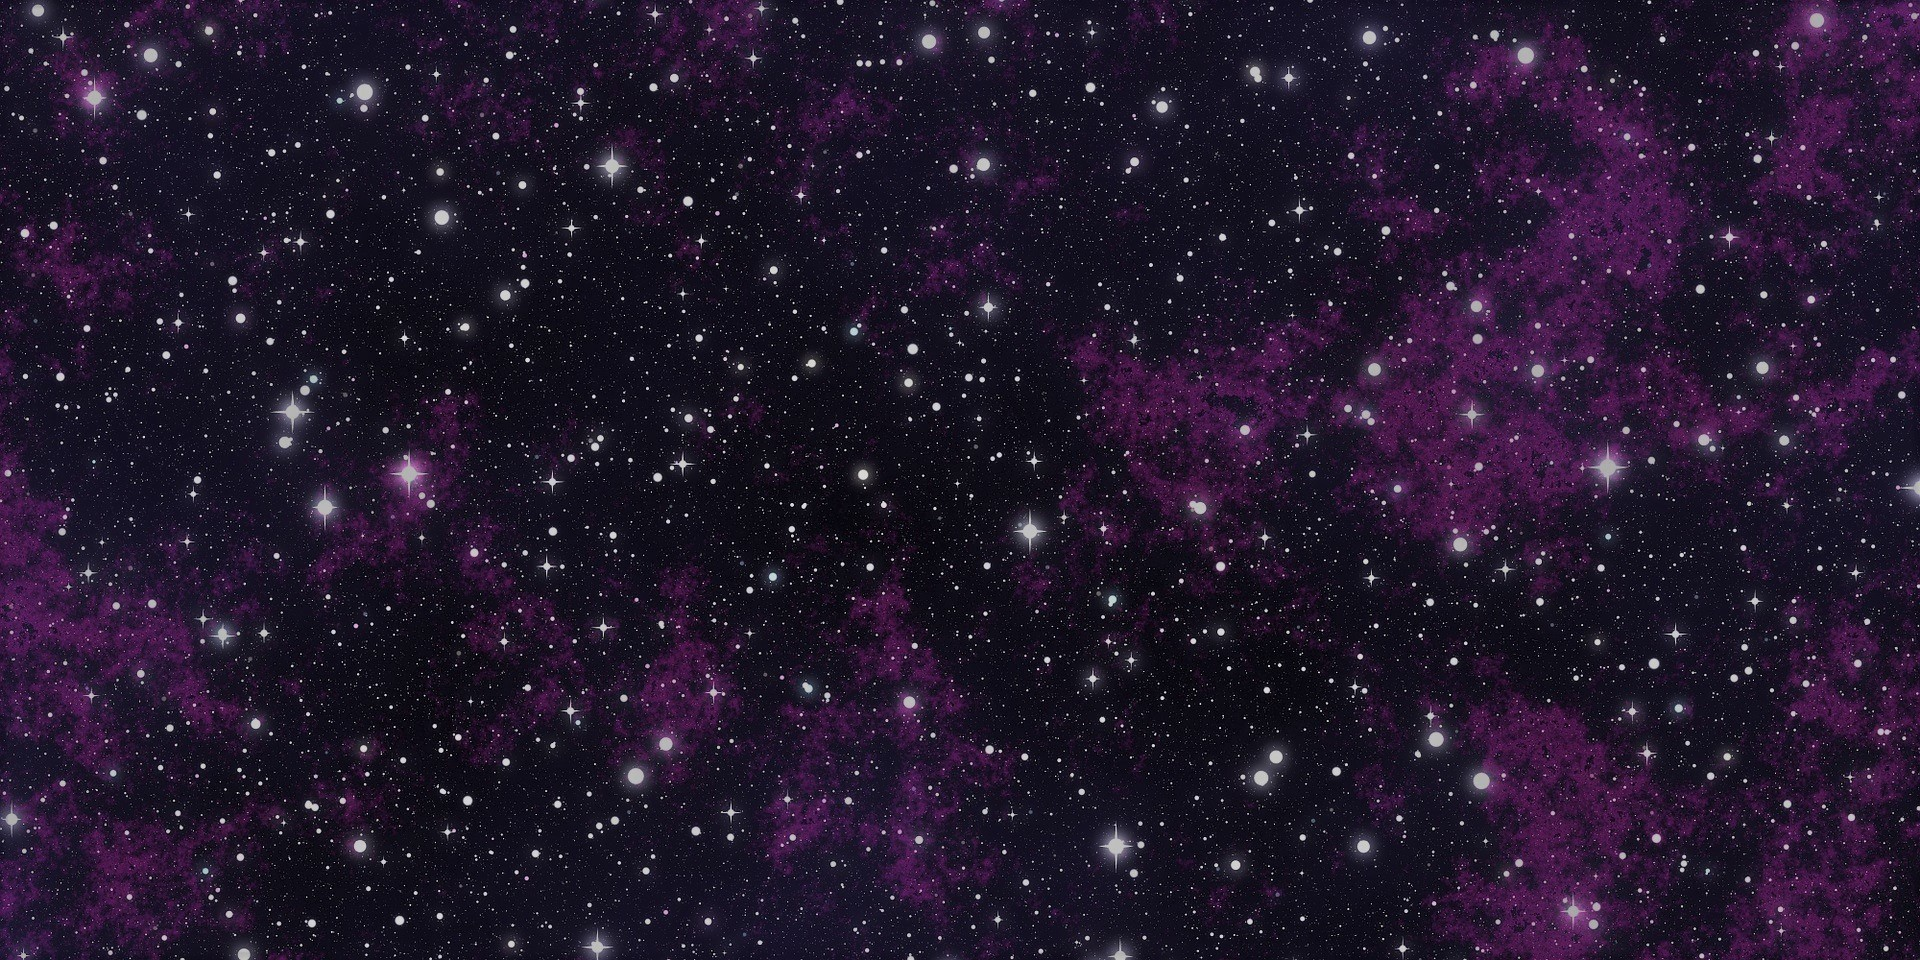
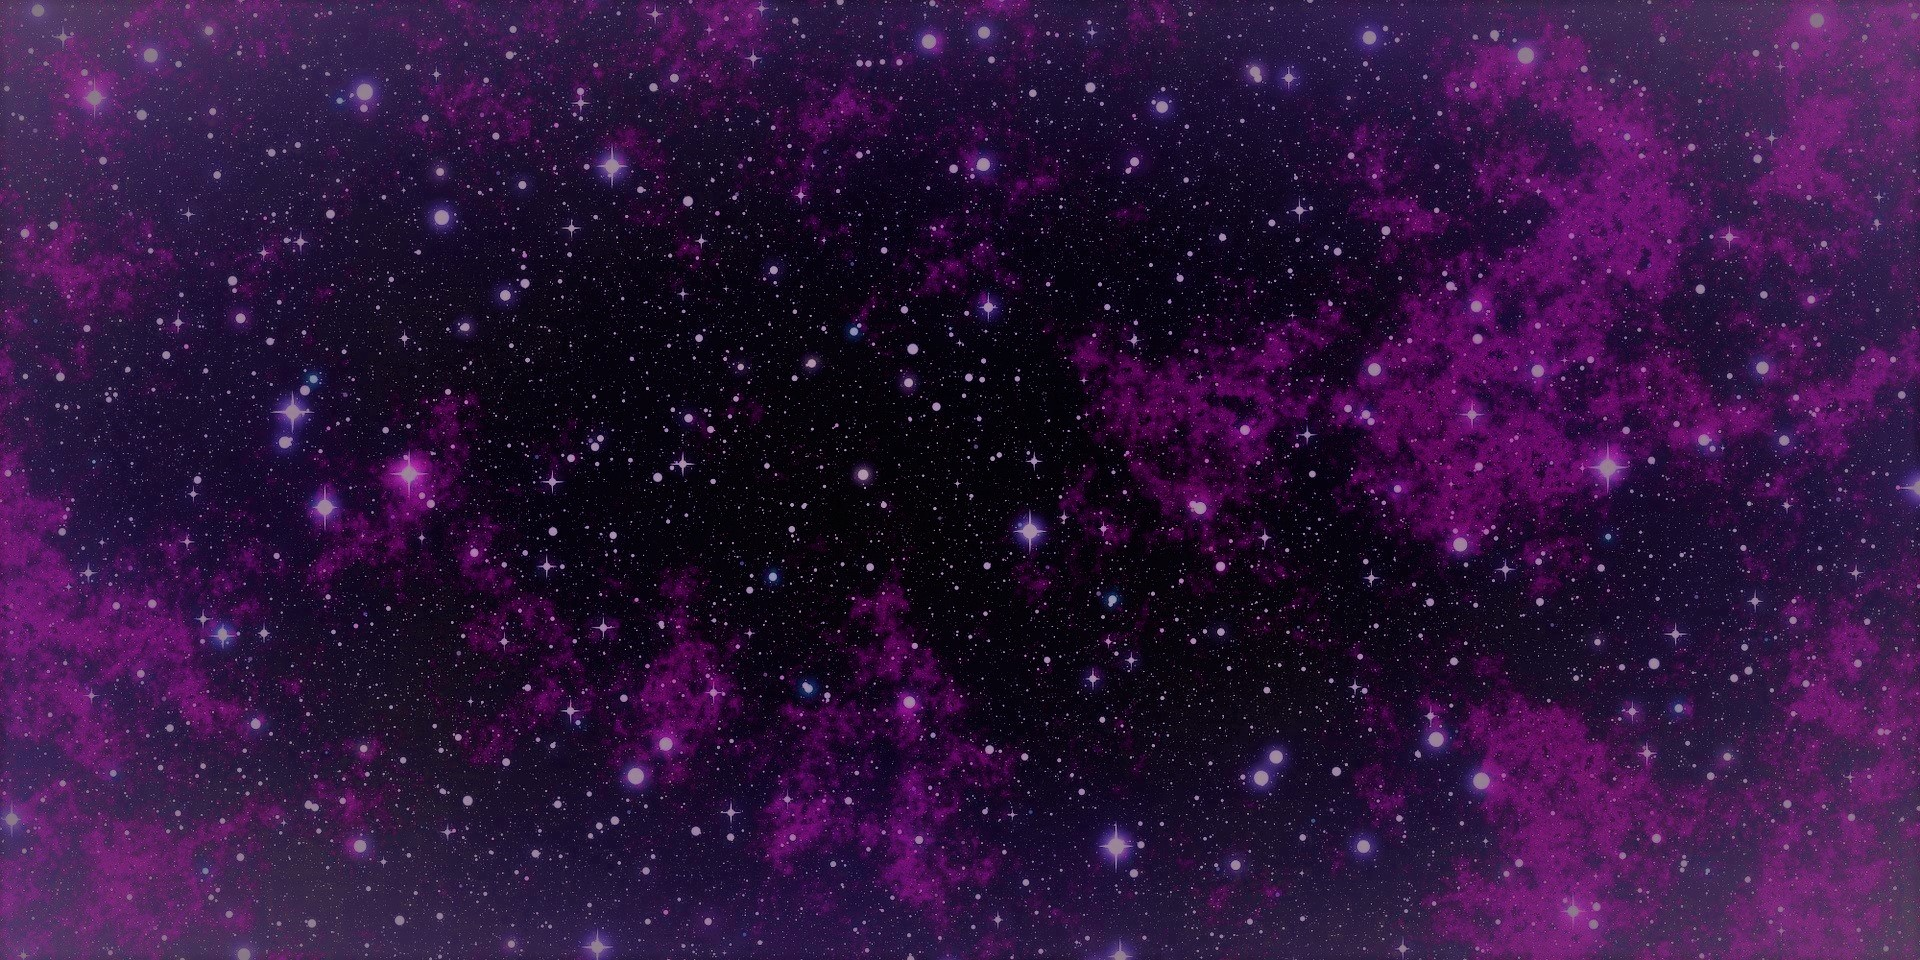
added background color

diff --git a/frontend/style.css b/frontend/style.css
@@ -3,8 +3,11 @@
   padding:0px;
   box-sizing:border-box;
 }
+
 body{
+  background-color: #130830;
 }
+
 nav {
   display:flex;
   justify-content:space-around;
@@ -23,7 +26,7 @@ nav {
 }
 
 .logo {
-  color: #e38ff7;
+  color: #fce8fc;
   text-transform: uppercase;
   letter-spacing: 4px;
   font-size:20px;
